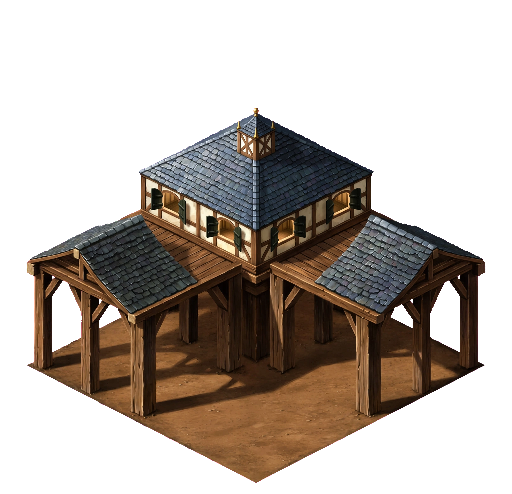
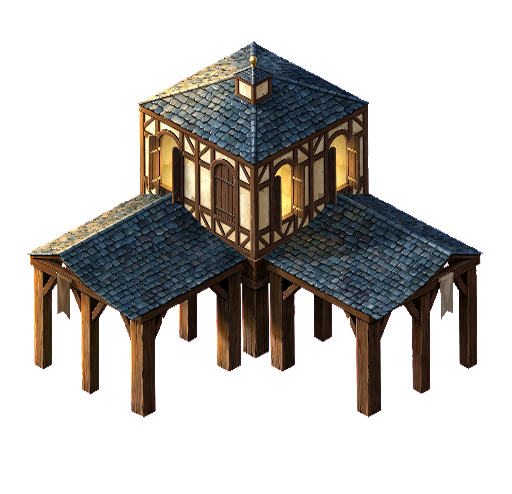
Publish TC iteration 6 TRANSPARENT GROUND + UPPER-FLOOR PERSON PROPORTION (main e1b27ce): town-center.png + buildings README

diff --git a/assets-original/buildings/README.md b/assets-original/buildings/README.md
@@ -240,3 +240,52 @@ structure before fitting). The winning prompt is recorded in
 `PROMPTS.md` ("TOWN CENTER HORSESHOE — EMPTY GROUND + UPPER
 WALLS"). Iteration 4's winner X is backed up as
 `town-center-horseshoe-v3-backup.png` in the staging area.
+
+Iteration 6 (2026-10-19, Claudio's verdict on iteration 5:
+"Ótimo" — with two literal corrections: "o chão é transparente"
+and "o primeiro andar também tem que ter a mesma proporção para
+alguém estar nele"): **the ground is now TRANSPARENT** — the
+sprite paints no ground whatsoever: inside the 4×4 footprint
+every pixel is either structure or alpha (no dirt diamond, no
+apron, no painted contact shadow; the posts simply end at the
+ground line and the game's terrain renders beneath) — and
+**the upper floor is person-scaled**: its wall band (top of the
+elevated floor slab to the eaves) must itself measure
+≈1.20–1.35× the villager, so a person plausibly stands inside
+that floor. Winner BB4: geometry-first blockout
+(`tc_blockout8.py` — same horseshoe plan and posts; the
+blockout's ground is flat magenta with a guide outline only,
+and its wall band is deliberately over-drawn at 1.52 z because
+the generator compresses the band to ~0.7–0.85 of the drawn
+ratio, the same failure family as the flattened roof pitches),
+the iteration-5 restyle prompt plus a TRANSPARENT GROUND
+paragraph and TALLEST-ELEMENT wall wording, fitted with a
+post-base landmark affine (there is no dirt diamond left to
+ground on: the leftmost/rightmost post bases and one hero post
+base are the landmarks) and a final ×1.10 vertical proportion
+stretch about the equator. Measured on the final fitted art
+against the 73px game-scale villager (judged on
+`tc-lock6-judge.png`, composited over the game's grass):
+**wall band 1.23–1.32×** (90px on the left face, 96px at the
+front corner — inside the 1.20–1.35 band; judge panel (c) is
+the proof: a villager standing ON the elevated deck beside the
+wall, head below the eaves with headroom), **undercroft
+≈1.23×** (a hair under the 1.25 floor of its band),
+**ridge 3.33×** and **turret 3.70×** — both over their old
+bands, disclosed: undercroft + slab + a person-scaled wall +
+roof cannot also keep the old roof numbers, and Claudio's
+proportion rules win. **Alpha audit** of the fitted sprite
+(canonical diamond = 52,441 px): 64.8% transparent, 35.2%
+structure (posts, deck, walls, roofs), **ground-fill pixels:
+ZERO** — verified by masking the fitted art against the warped
+blockout's structure: the generator painted 19 stray px
+outside the structure mask and the pipeline removed them; any
+painted earth or ground shadow is removed the same way.
+Rejected: AA2 (sheds floored on raised plank platforms), BB3
+(windows became open arches with a visible interior floor —
+the loggia failure — and its turret a brick chimney), BB2
+(cloths hanging into the sheds), BB1 (wall band 0.91×,
+door-like shutter windows, invented chimney), AA1/AA3/AA4
+(wall bands 0.98×/0.86×/0.97× — batch 1, before the over-draw).
+Iteration 5's winner Z1 is backed up as
+`town-center-horseshoe-v4-backup.png` in the staging area.
